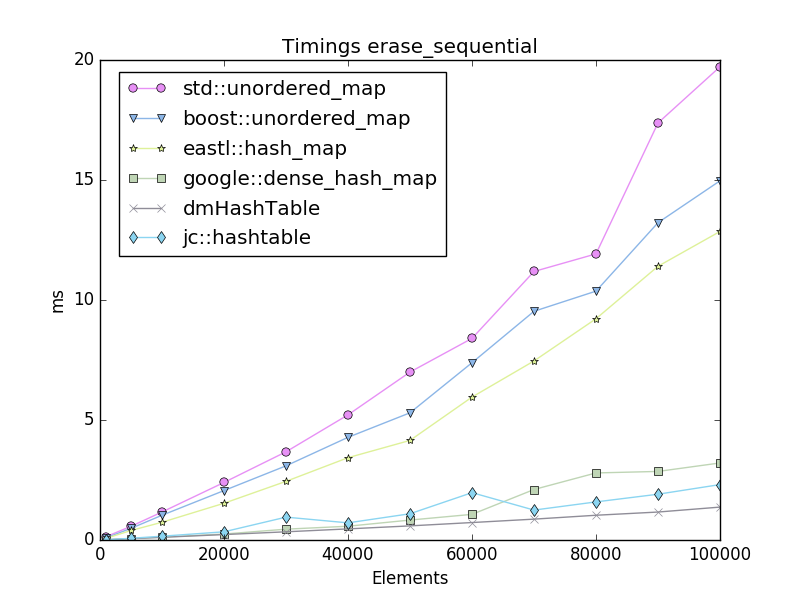
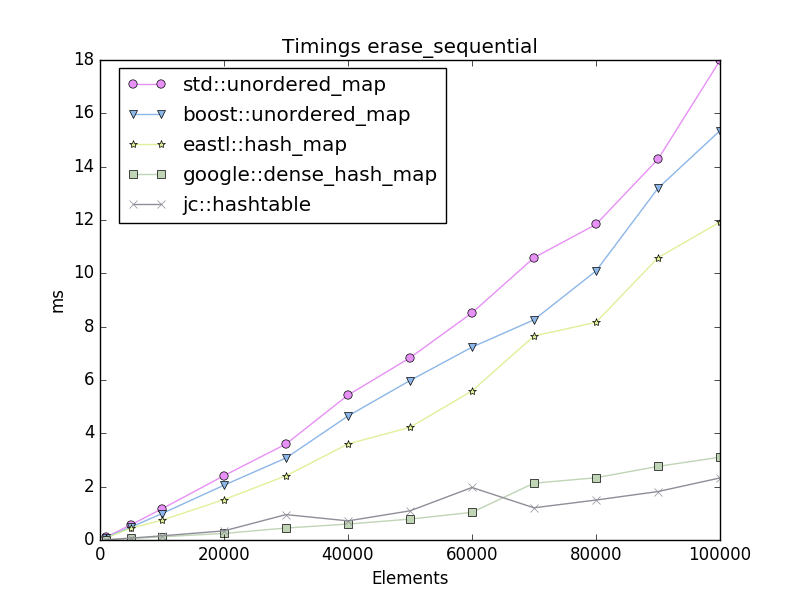
Tweaked readmes

diff --git a/benchmarks/markdown.py b/benchmarks/markdown.py
@@ -1,4 +1,5 @@
 import sys, os, subprocess
+from render import get_path_from_test_name
 
 def run(cmd):
     p = subprocess.Popen(cmd, stdout=subprocess.PIPE)
@@ -21,6 +22,16 @@ def get_log(path):
                 continue
             lines.append(line)
     return lines
+    
+def get_tests(log):
+    tests = []
+    for line in log:
+        if not line.startswith('## '):
+            continue
+        tokens = line.strip().split(' ', 1)
+        tests.append(tokens[1])
+    return tests
+        
         
 if __name__ == '__main__':
 
@@ -31,4 +42,15 @@ if __name__ == '__main__':
     print ""
     print "Benchmarks run on a:", get_machine(), " ", get_cpu() 
     print ""
-    print "".join(get_log(log))
+    
+    print "<sub>"
+    lines = get_log(log)
+    print "".join(lines)
+    
+    tests = get_tests(lines)
+    print "# Images"
+    for test in tests:
+        print '<img src="%s" alt="%s" width="350"><br>' % (get_path_from_test_name(test), test)
+
+    print "</sub>"
+    

diff --git a/benchmarks/render.py b/benchmarks/render.py
@@ -93,10 +93,13 @@ def render(test):
     
     data = Data(bars)
     fig = Figure(data=data, layout=layout)
-    outpath = '../images/%s.png' % test['name'].lower().replace(' ', '_')
+    outpath = get_path_from_test_name(test['name'])
     py.image.save_as(fig, outpath)
     
     print "Wrote", outpath
+    
+def get_path_from_test_name(name):
+    return '../images/%s.png' % name.lower().replace(' ', '_')
 
 def render_pygal(test):
 

diff --git a/benchmarks/makereport.py b/benchmarks/makereport.py
@@ -200,7 +200,7 @@ if __name__ == '__main__':
                 #'./build/ht_boost_flat_map',
                 './build/ht_google_dense_hash_map',
                 #'./build/ht_google_sparse_hash_map',
-                './build/ht_dm_hashtable',
+                #'./build/ht_dm_hashtable',
                 #'./build/ht_jc_hashtable_ch',
                 #'./build/ht_jc_hashtable_rh',
                 './build/ht_jc_hashtable',]
